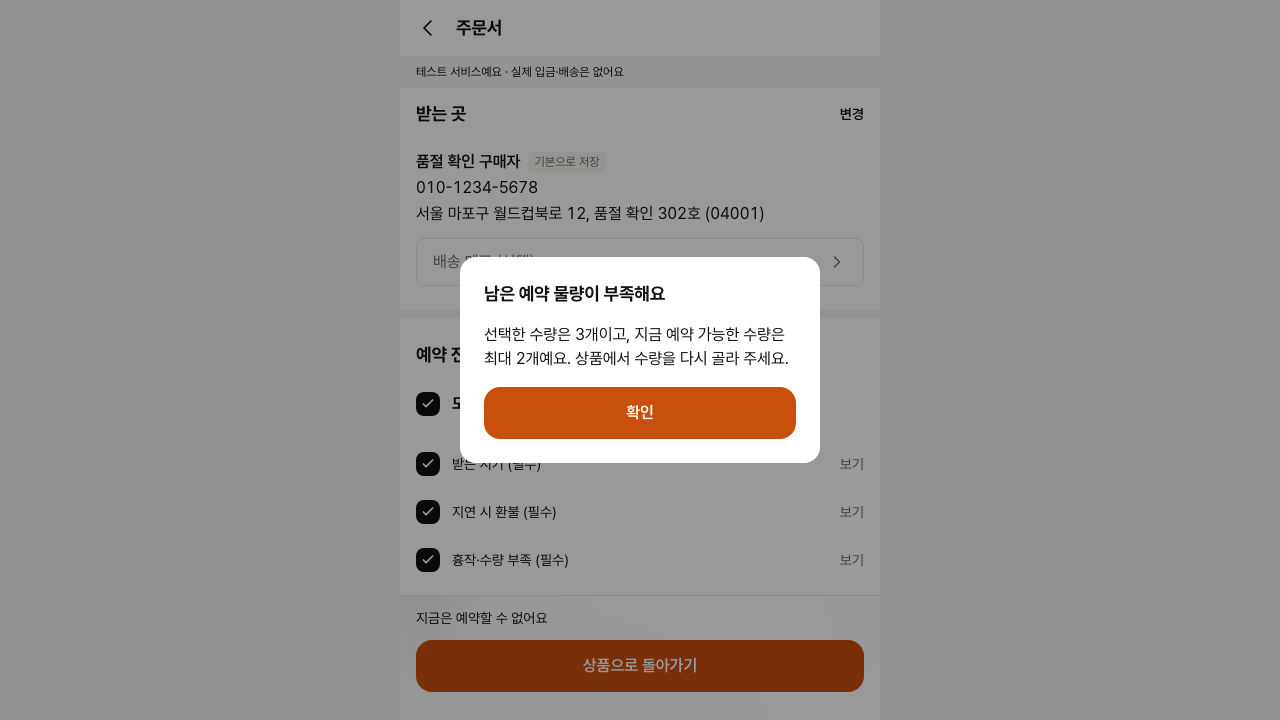
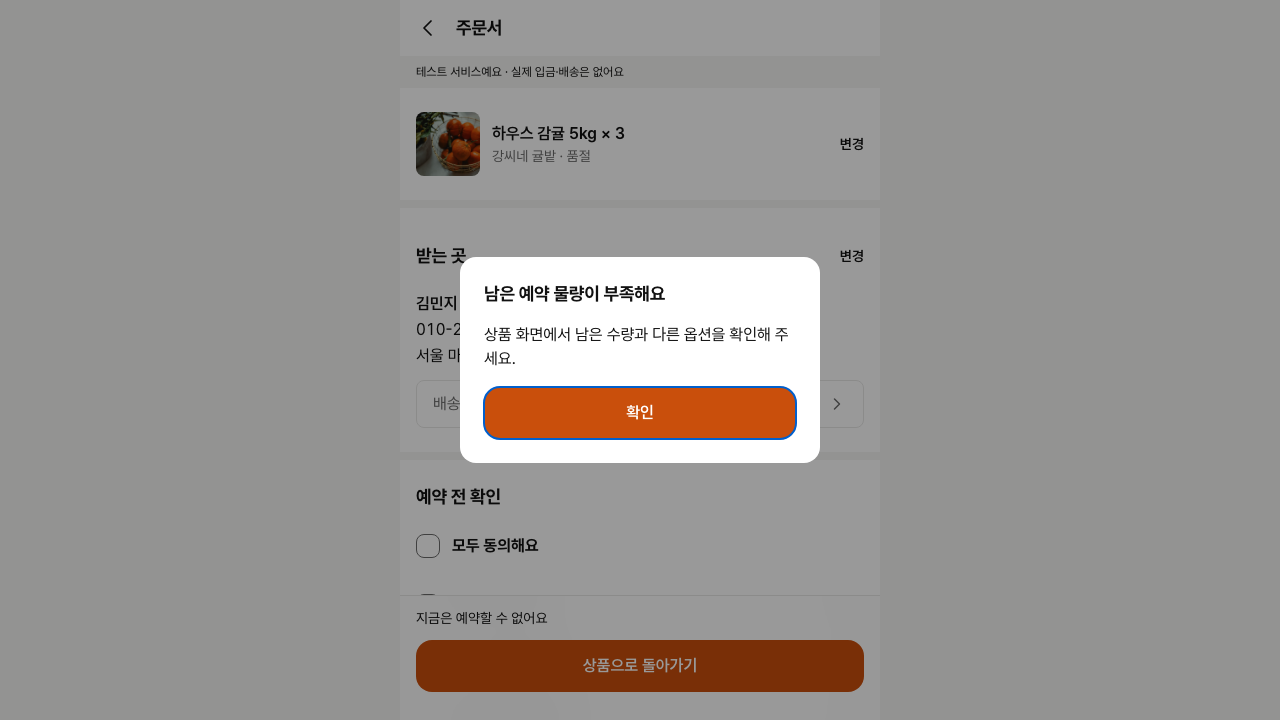
fix(checkout): unify shortage and sold-out body copy (DEV-353)
FEAT-08 AC-08-9. Use the same product-return guidance for shortage and sellout.

diff --git a/apps/consumer/src/lib/checkoutConflict.ts b/apps/consumer/src/lib/checkoutConflict.ts
@@ -204,9 +204,7 @@ export function conflictView(
       return ended(
         maximum > 0 ? "남은 예약 물량이 부족해요" : c.reason === "SOLD_OUT"
           ? "선택한 옵션이 품절됐어요" : "예약 물량이 다 찼어요",
-        maximum > 0 && ctx.quantity > maximum
-          ? `선택한 수량은 ${ctx.quantity}개이고, 지금 예약 가능한 수량은 최대 ${maximum}개예요. 상품에서 수량을 다시 골라 주세요.`
-          : "상품 화면에서 남은 수량과 다른 옵션을 확인해 주세요.",
+        "상품 화면에서 남은 수량과 다른 옵션을 확인해 주세요.",
       );
     }
     case "QUANTITY_LIMIT":

diff --git a/docs/spec/functional/FEAT-08-reservation-order.md b/docs/spec/functional/FEAT-08-reservation-order.md
@@ -36,6 +36,6 @@
 E2의 입금 안내 복구는 [FEAT-09 AC-09-3](./FEAT-09-mock-payment.md)을 따른다. 결과가 불확실한 원래 입금 요청은 같은 주문·선택·키로 먼저 해결한다. 재생이 성공하면 기존 예약의 입금 안내로 이어지며, 뒤에 편집한 받는 곳·메모·옵션·수량 등이 기존 예약에 저장됐다고 표시하지 않는다. 기존 예약 안내로 그 사실을 알리고 기존 주문의 ‘입금 안내 보기’를 제공한다. 반복 실패에도 원래 문맥을 유지하고, 명확한 도메인 거부 뒤에만 E1 등 기존 재확인 흐름을 적용한다. 이 보장은 같은 세션의 해당 주문서 문맥에 적용한다.
 
 ## DEV-353 재고 부족·품절 안내
-- 주문 요청의 SOLD_OUT·TOTAL_LIMIT_REACHED 또는 주문서 진입·재조회에서 품절 또는 선택 수량 초과를 확인하면 모달로 알린다. 일부 물량이 남았을 때는 선택 수량과 가능한 수량을 함께 설명한다.
+- 주문 요청의 SOLD_OUT·TOTAL_LIMIT_REACHED 또는 주문서 진입·재조회에서 품절 또는 선택 수량 초과를 확인하면 모달로 알린다. 재고 부족과 품절의 본문은 ‘상품 화면에서 남은 수량과 다른 옵션을 확인해 주세요.’로 통일한다.
 - 확인 또는 모달 뒤로 가기·Esc는 상품 화면으로 돌아가 다시 선택하도록 한다. 중간 배송지 화면이 아니라 해당 상품으로 돌아가며, 직접 진입도 같은 경로를 사용한다.
 - 주문 생성은 서버 검증을 유지하고, 이미 생성한 입금 대기 주문·결과가 불확실한 요청은 기존 중복 방지·복구를 우선한다. 가격 변경·판매 중지·기한 만료 등의 기존 흐름은 유지한다.

diff --git a/docs/wiki/Checkout-Stock-Exit.md b/docs/wiki/Checkout-Stock-Exit.md
@@ -2,6 +2,6 @@
 
 DEV-353 | Local implementation prepared for human review
 
-Checkout detects positive stock shortages and full sellout from current product data or server conflicts. It shows a modal and returns to the same product on confirmation or Escape, including direct-entry checkout and address history. No new order is created by dismissal. Existing price/pause flows and unresolved-deposit idempotency protections remain in force.
+Checkout detects positive stock shortages and full sellout from current product data or server conflicts. Shortage and sellout use the same body copy asking the buyer to check remaining quantities and other options on the product page. It shows a modal and returns to the same product on confirmation or Escape, including direct-entry checkout and address history. No new order is created by dismissal. Existing price/pause flows and unresolved-deposit idempotency protections remain in force.
 
 The source of truth is the related Korean feature specification and the issue-specific task file. Production deployment is a separate post-merge step.

diff --git a/apps/consumer/tasks/DEV-353.md b/apps/consumer/tasks/DEV-353.md
@@ -39,3 +39,6 @@
 - 관련 Node 테스트 18개 통과.
 - AI 1차 리뷰에서 확정 지적을 해결했다. 사람이 최종 diff를 검토한 뒤 머지한다.
 - Human 0.5h (사용자 확인). Figma 동기화는 같은 이슈의 후속으로 명시한다.
+
+### 추가 사용자 문구 결정
+- 재고 부족과 품절의 본문을 ‘상품 화면에서 남은 수량과 다른 옵션을 확인해 주세요.’로 통일한다.
